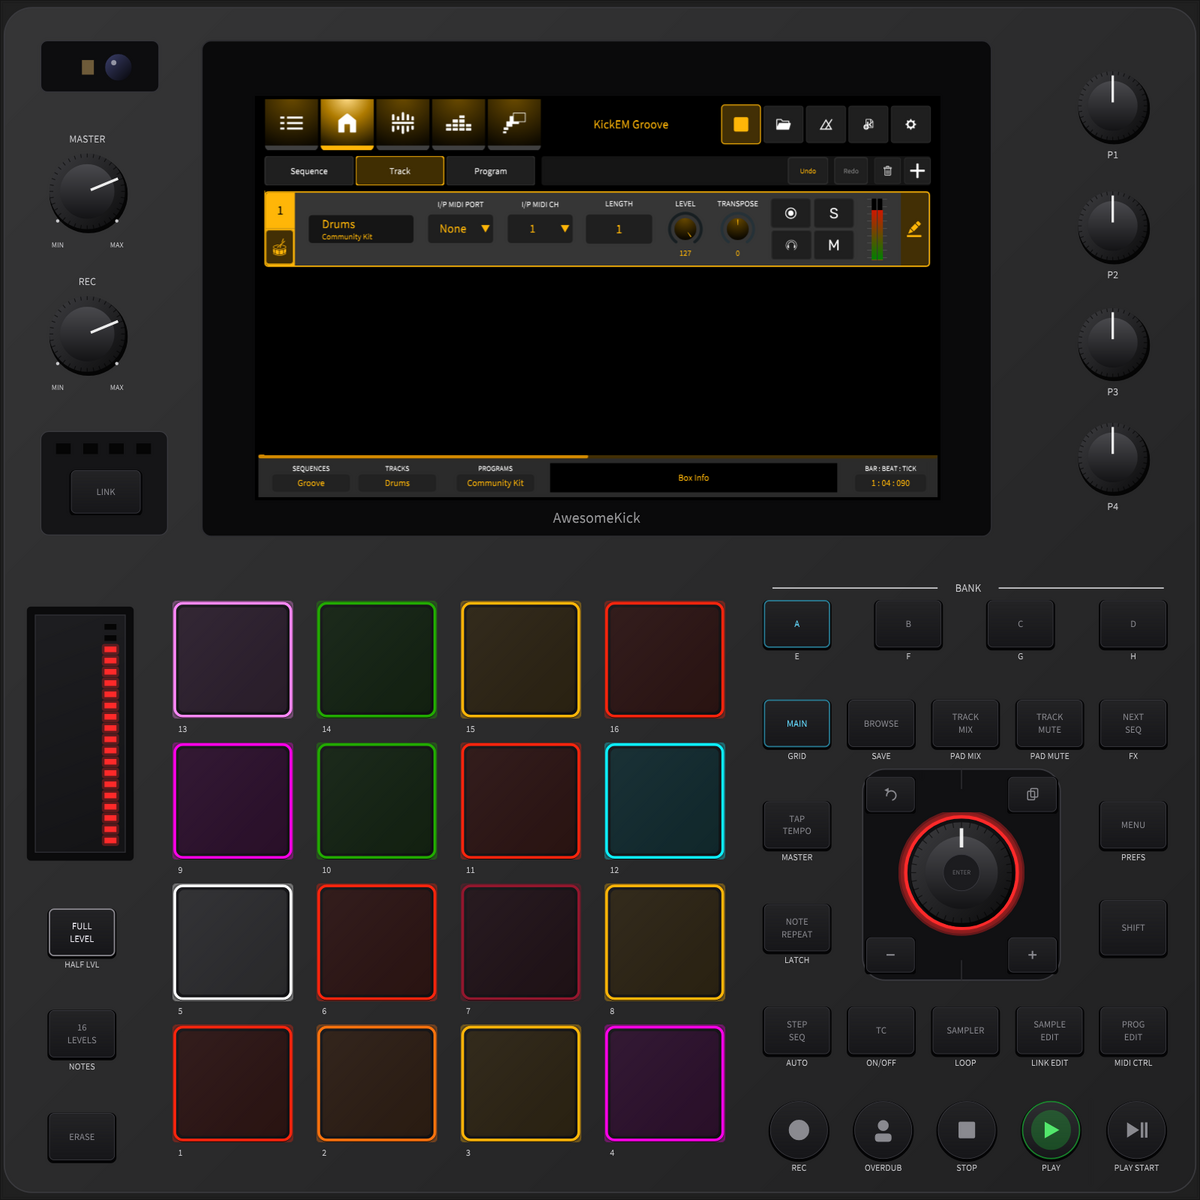
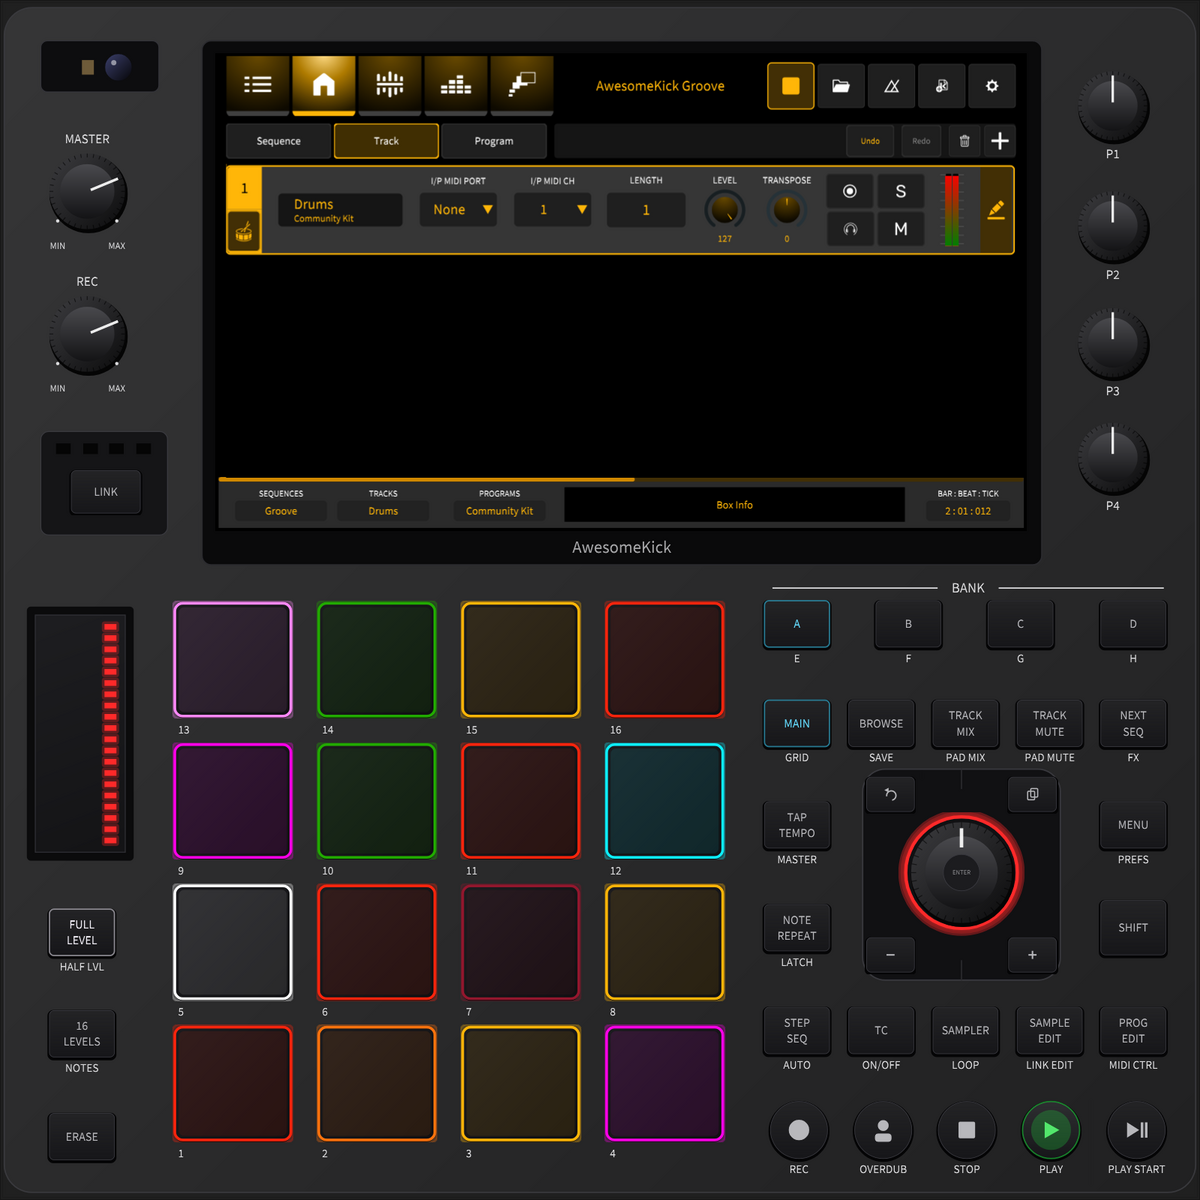
Bedienfeld nach neuer Vorlage: groesseres Display, groessere hellere Beschriftung
- Display fuellt den Rahmen: Firmware-Anzeige 1024x600 per Transform
  x1,186 auf (325,75) skaliert, Rahmen 1266x790; Klicks werden mitskaliert
- alle Beschriftungen ~1,28x groesser (Tasten, Legenden, Regler, MIN/MAX,
  Pad-Nummern, BANK, Schriftzug), gedruckte Schrift #dcdcde, unbeleuchtete
  Tastentexte #b8b8bc
- README-Screenshot mit neuem Aussehen

diff --git a/Kick/apps/kickem/simulator/kick_SimulatorControls.cpp b/Kick/apps/kickem/simulator/kick_SimulatorControls.cpp
@@ -192,7 +192,7 @@ namespace sim
             {
                 // Backlit legend on the cap
                 g.setColour( led ? lit.brighter( 0.25f ) : lit );
-                const auto fontH = juce::jmin( 19.0f, face.getHeight() * 0.3f );
+                const auto fontH = juce::jmin( 24.0f, face.getHeight() * 0.38f );
                 g.setFont( juce::Font( fontH, juce::Font::bold ) );
                 const int lines = label.containsChar( ' ' ) && label.length() > 6 ? 2 : 1;
                 g.drawFittedText( lines == 2 ? label.replaceFirstOccurrenceOf( " ", "\n" ) : label, face.reduced( 4.0f, 3.0f ).toNearestInt(),
@@ -206,7 +206,7 @@ namespace sim
             {
                 const bool shiftOn = style == Style::key && ShiftLatch::isLatched();
                 g.setColour( shiftOn ? palette::shiftText : palette::legend );
-                g.setFont( juce::Font( juce::jmin( 18.0f, below.getHeight() * 0.8f ), style == Style::round ? juce::Font::plain : juce::Font::bold ) );
+                g.setFont( juce::Font( juce::jmin( 23.0f, below.getHeight() * 0.95f ), style == Style::round ? juce::Font::plain : juce::Font::bold ) );
                 g.drawFittedText( text, below.toNearestInt(), juce::Justification::centredTop, 1, 0.75f );
             }
             return;
@@ -228,16 +228,16 @@ namespace sim
         {
             auto top = textArea.removeFromTop( textArea.getHeight() * 0.58f );
             g.setColour( palette::text );
-            g.setFont( juce::Font( juce::jmin( 15.0f, top.getHeight() * 0.6f ), juce::Font::bold ) );
+            g.setFont( juce::Font( juce::jmin( 19.0f, top.getHeight() * 0.75f ), juce::Font::bold ) );
             g.drawFittedText( label, top.toNearestInt(), juce::Justification::centredBottom, 1 );
             g.setColour( ShiftLatch::isLatched() ? palette::shiftText : palette::shiftText.withAlpha( 0.6f ) );
-            g.setFont( juce::Font( juce::jmin( 12.0f, textArea.getHeight() * 0.8f ) ) );
+            g.setFont( juce::Font( juce::jmin( 15.0f, textArea.getHeight() * 0.9f ) ) );
             g.drawFittedText( shiftLabel, textArea.toNearestInt(), juce::Justification::centredTop, 1 );
         }
         else
         {
             g.setColour( palette::text );
-            g.setFont( juce::Font( juce::jmin( 15.0f, textArea.getHeight() * 0.45f ), juce::Font::bold ) );
+            g.setFont( juce::Font( juce::jmin( 19.0f, textArea.getHeight() * 0.55f ), juce::Font::bold ) );
             g.drawFittedText( label, textArea.toNearestInt(), juce::Justification::centred, 2 );
         }
     }
@@ -393,21 +393,21 @@ namespace sim
             g.setColour( palette::legend );
             if( label.isNotEmpty() )
             {
-                g.setFont( juce::Font( 21.0f, juce::Font::bold ) );
+                g.setFont( juce::Font( 26.0f, juce::Font::bold ) );
                 auto strip = labelAbove ? juce::Rectangle<float>( 0.0f, 0.0f, (float)getWidth(), 30.0f )
-                                        : juce::Rectangle<float>( 0.0f, k.getBottom() + 8.0f, (float)getWidth(), 28.0f );
+                                        : juce::Rectangle<float>( 0.0f, k.getBottom() + 6.0f, (float)getWidth(), 30.0f );
                 g.drawText( label, strip, juce::Justification::centred );
             }
             if( showMinMax )
             {
-                g.setFont( juce::Font( 15.0f, juce::Font::bold ) );
+                g.setFont( juce::Font( 19.0f, juce::Font::bold ) );
                 auto y     = k.getBottom() + 4.0f;
                 auto left  = c.getPointOnCircumference( r + 6.0f, juce::degreesToRadians( -135.0f ) );
                 auto right = c.getPointOnCircumference( r + 6.0f, juce::degreesToRadians( 135.0f ) );
                 g.fillEllipse( juce::Rectangle<float>( 5.0f, 5.0f ).withCentre( left ) );
                 g.fillEllipse( juce::Rectangle<float>( 5.0f, 5.0f ).withCentre( right ) );
-                g.drawText( "MIN", juce::Rectangle<float>( left.x - 40.0f, y + 10.0f, 80.0f, 20.0f ), juce::Justification::centred );
-                g.drawText( "MAX", juce::Rectangle<float>( right.x - 40.0f, y + 10.0f, 80.0f, 20.0f ), juce::Justification::centred );
+                g.drawText( "MIN", juce::Rectangle<float>( left.x - 40.0f, y + 9.0f, 80.0f, 24.0f ), juce::Justification::centred );
+                g.drawText( "MAX", juce::Rectangle<float>( right.x - 40.0f, y + 9.0f, 80.0f, 24.0f ), juce::Justification::centred );
             }
             return;
         }
@@ -448,8 +448,8 @@ namespace sim
         if( label.isNotEmpty() )
         {
             g.setColour( palette::text );
-            g.setFont( juce::Font( juce::jmin( 14.0f, getHeight() * 0.14f ), juce::Font::bold ) );
-            g.drawText( label, getLocalBounds().removeFromBottom( (int)juce::jmin( 20.0f, getHeight() * 0.18f ) ), juce::Justification::centred );
+            g.setFont( juce::Font( juce::jmin( 18.0f, getHeight() * 0.17f ), juce::Font::bold ) );
+            g.drawText( label, getLocalBounds().removeFromBottom( (int)juce::jmin( 25.0f, getHeight() * 0.21f ) ), juce::Justification::centred );
         }
     }
 
@@ -653,11 +653,11 @@ namespace sim
     {
         // Pad numbers printed under the bottom-left corner of each pad, as on the hardware.
         g.setColour( palette::legend );
-        g.setFont( juce::Font( 18.0f, juce::Font::bold ) );
+        g.setFont( juce::Font( 23.0f, juce::Font::bold ) );
         for( int i = 0; i < 16; ++i )
         {
             auto pb = pads[(size_t)i]->getBounds();
-            g.drawText( juce::String( i + 1 ), juce::Rectangle<int>( pb.getX() + 8, pb.getBottom() + 4, 60, 24 ), juce::Justification::centredLeft );
+            g.drawText( juce::String( i + 1 ), juce::Rectangle<int>( pb.getX() + 8, pb.getBottom() + 3, 60, 28 ), juce::Justification::centredLeft );
         }
     }
 

diff --git a/Kick/apps/kickem/simulator/kick_Simulator.cpp b/Kick/apps/kickem/simulator/kick_Simulator.cpp
@@ -9,8 +9,9 @@ namespace sim
     namespace
     {
         // Board coordinates of the hardware panel (see SimulatorBoard::boardWidth).
-        const juce::Rectangle<int> screenRect { 385, 140, 1024, 600 };
-        const juce::Rectangle<int> bezelRect { 300, 52, 1190, 747 };
+        // The firmware screen is 1024x600; it is shown scaled up to fill the bezel (screenRect).
+        const juce::Rectangle<int> screenRect { 325, 75, 1214, 711 };
+        const juce::Rectangle<int> bezelRect { 300, 52, 1266, 790 };
         const juce::Rectangle<int> cameraRect { 57, 52, 178, 77 };
         const juce::Rectangle<int> linkRect { 57, 641, 191, 156 };
 
@@ -1710,7 +1711,7 @@ return dir.getNumberOfChildFiles( juce::File::findFiles, "*.wav" ) == (int)std::
 
         // Community name under the screen (no manufacturer logo)
         g.setColour( palette::legend.withAlpha( 0.75f ) );
-        g.setFont( juce::Font( 30.0f, juce::Font::bold ) );
+        g.setFont( juce::Font( 34.0f, juce::Font::bold ) );
         g.drawText( "AwesomeKick", juce::Rectangle<int>( bezelRect.getX(), screenRect.getBottom() + 6, bezelRect.getWidth(), bezelRect.getBottom() - screenRect.getBottom() - 10 ),
                     juce::Justification::centred );
     }
@@ -1718,7 +1719,9 @@ return dir.getNumberOfChildFiles( juce::File::findFiles, "*.wav" ) == (int)std::
     void SimulatorBoard::resized()
     {
         // All positions in board units, measured from the hardware panel.
-        screen.setBounds( screenRect );
+        screen.setBounds( 0, 0, 1024, 600 );
+        screen.setTransform( juce::AffineTransform::scale( (float)screenRect.getWidth() / 1024.0f )
+                                 .translated( (float)screenRect.getX(), (float)screenRect.getY() ) );
 
         // Upper left: MASTER and REC pots, LINK
         masterKnob.setBounds( 127 - 90, 279 - 94, 180, 196 );

diff --git a/Kick/apps/kickem/simulator/kick_SimulatorMainControl.cpp b/Kick/apps/kickem/simulator/kick_SimulatorMainControl.cpp
@@ -74,7 +74,7 @@ namespace sim
         // "BANK" heading with rules either side
         auto head = juce::Rectangle<int>( local( 1150, 862 ).x, local( 1150, 862 ).y, 610, 30 );
         g.setColour( palette::legend );
-        g.setFont( juce::Font( 22.0f, juce::Font::bold ) );
+        g.setFont( juce::Font( 28.0f, juce::Font::bold ) );
         g.drawText( "BANK", head, juce::Justification::centred );
         auto ruleY = (float)head.getCentreY();
         g.drawLine( (float)head.getX() + 10.0f, ruleY, (float)head.getCentreX() - 46.0f, ruleY, 2.0f );

diff --git a/Kick/apps/kickem/simulator/kick_SimulatorControls.h b/Kick/apps/kickem/simulator/kick_SimulatorControls.h
@@ -49,8 +49,8 @@ namespace sim
         const juce::Colour cap { 0xff17171a };
         const juce::Colour capDown { 0xff2c2c31 };
         const juce::Colour capEdge { 0xff050506 };
-        const juce::Colour legend { 0xffc9c9cc };
-        const juce::Colour unlit { 0xff8a8a90 };
+        const juce::Colour legend { 0xffdcdcde };
+        const juce::Colour unlit { 0xffb8b8bc };
         const juce::Colour ring { 0xffff2a2a };
     }
 
